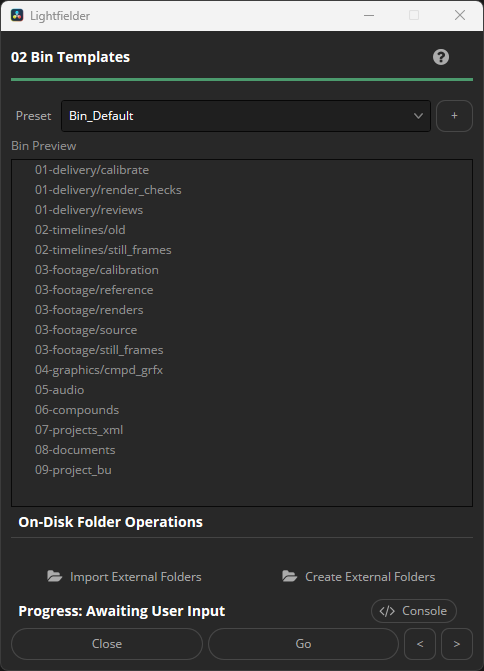
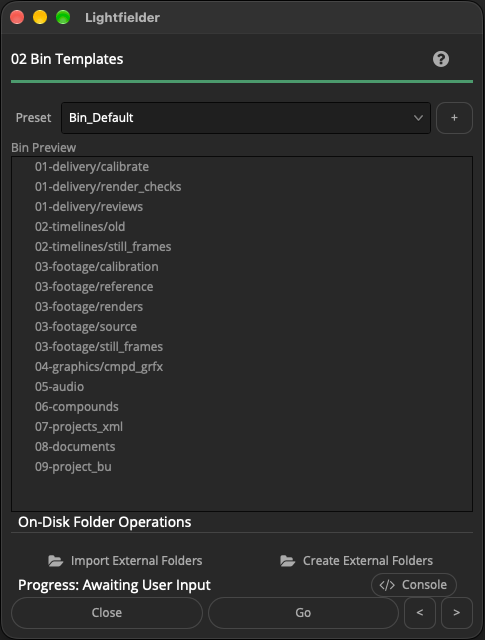
Bin Templates

diff --git a/Lightfielder/Resolve/Scripts/Utility/Lightfielder/02 Bin Templates.py b/Lightfielder/Resolve/Scripts/Utility/Lightfielder/02 Bin Templates.py
@@ -398,7 +398,11 @@ def GenerateBinsWindow():
 				}),
 				ui.Button({"ID": "AddPresetButton", "Text": "+", "MinimumSize": [32, 32], "Weight": 0.1}),
 			]),
-			ui.VGroup({"Weight": 1.0,},[
+			ui.VGroup({
+				"Weight": 1.0,
+				"Spacing": 0,
+				"Margin": 0,
+			},[
 				ui.Label({"ID": "BinPreviewLabel", "Text": "Bin Preview", "Weight": 0.01,}),
 				ui.Tree({
 					"ID": "Tree",
@@ -426,7 +430,9 @@ def GenerateBinsWindow():
 					"Weight": 0.01,
 				}),
 				ui.HGroup({
-					"Weight": 0.1,
+					"Weight": 0.01,
+					"Spacing": 0,
+					"Margin": 0,
 				},[
 					ui.Button({
 					"ID": "ImportExternalFoldersButton",
